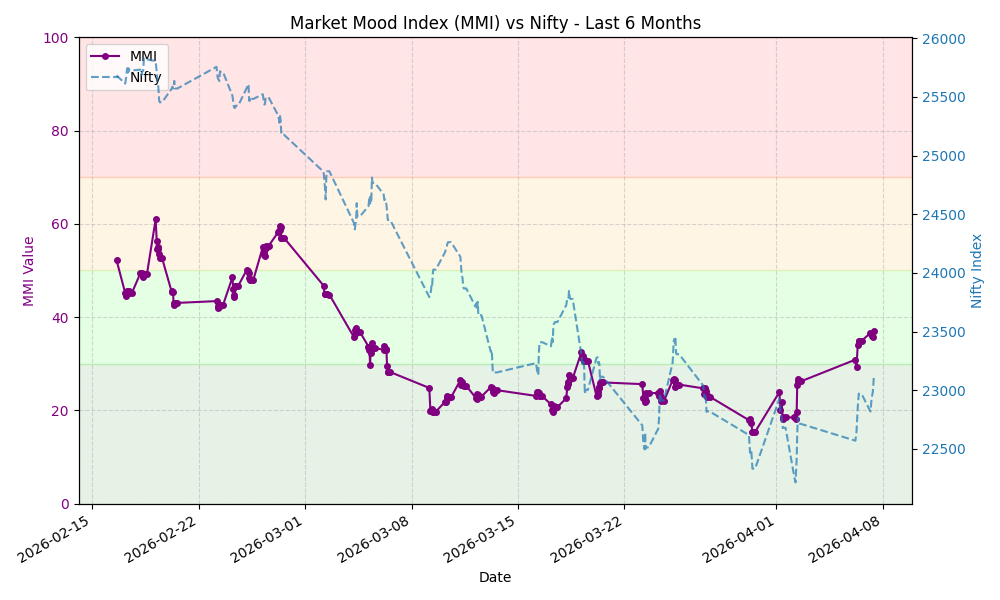
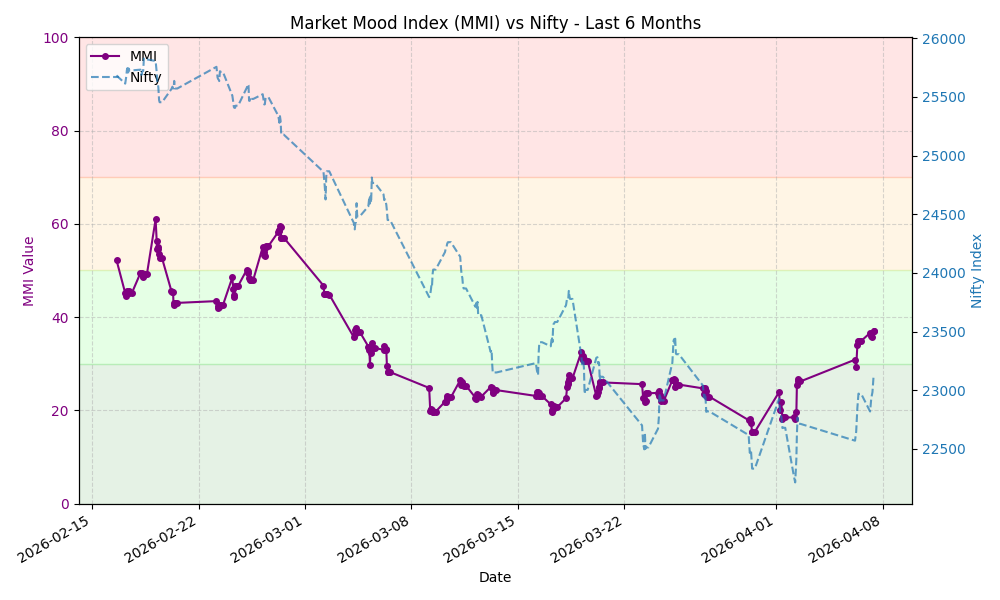
Update MMI data and chart

diff --git a/README.md b/README.md
@@ -7,8 +7,8 @@ This repository automatically fetches the MMI value, stores the history, and gen
 
 ## Latest MMI Value
 
-**37.06** - **Fear**
-<small>Last Updated: 2026-04-07 09:54 UTC</small>
+**36.93** - **Fear**
+<small>Last Updated: 2026-04-07 10:27 UTC</small>
 
 ## MMI Trend (Last 30 Days)
 
